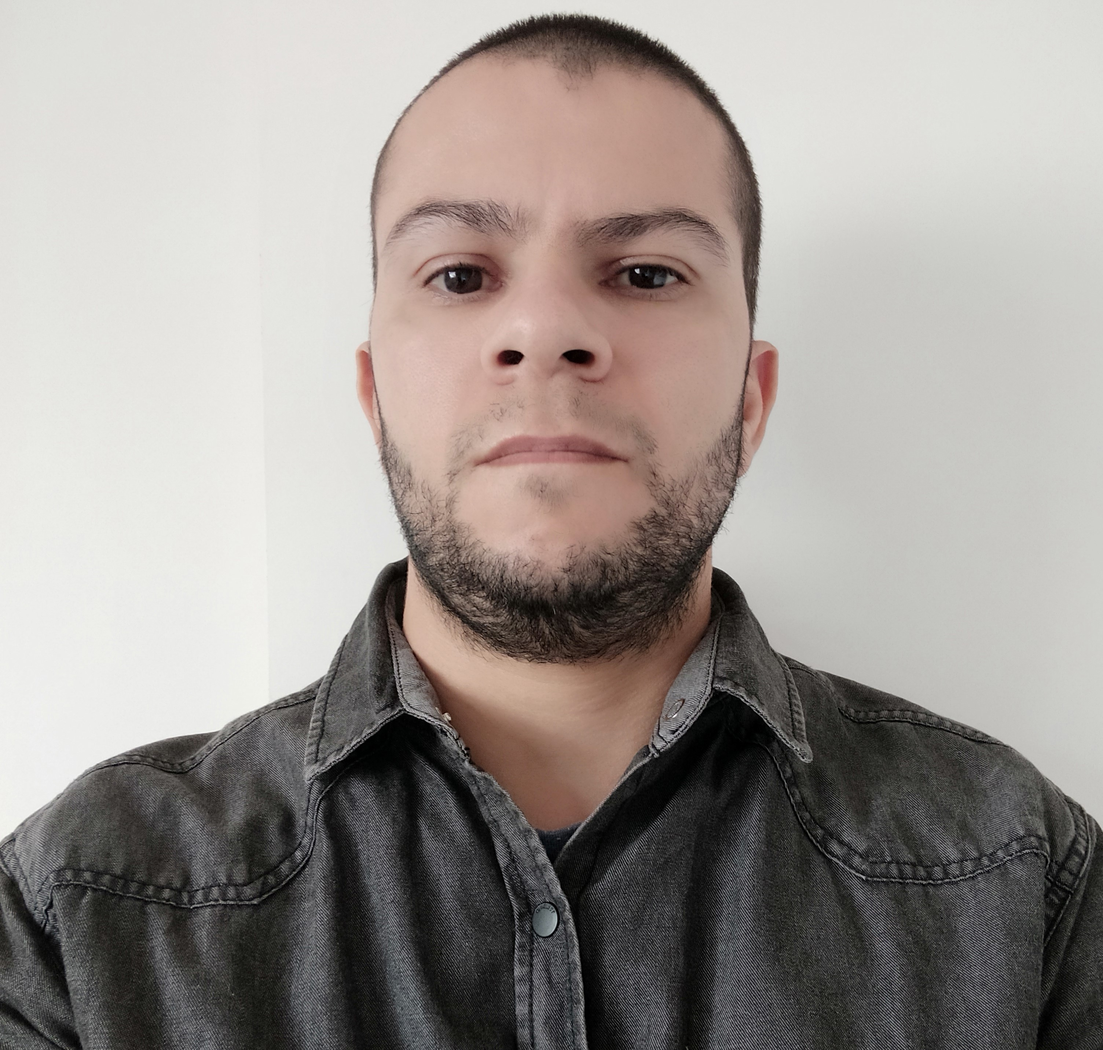
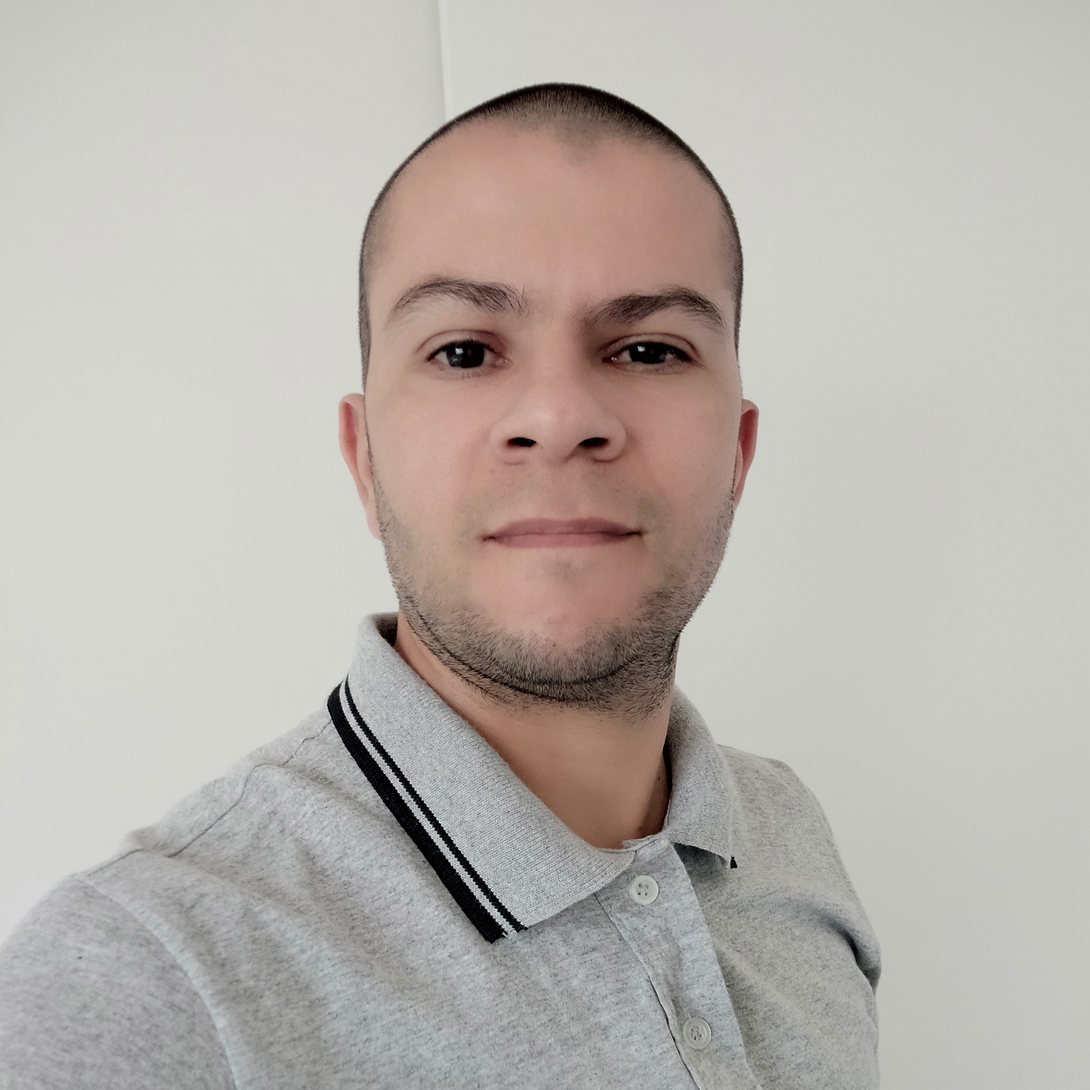
alteração de foto e cadastro

diff --git a/index.html b/index.html
@@ -8,7 +8,7 @@
     <!--visualizar no celular-->
     <link rel="icon" href="./images/ico.png" type="image/png">
     <link rel="stylesheet" type="text/css" href="./css/style.css">
-    <title>Treinamento</title>
+    <title>Luiz Marcelo Mota</title>
 </head>
 
 <body>
@@ -39,7 +39,7 @@
                 <div class="nome">
                     <h3>LUIZ MARCELO MOTA</h3><br>
 
-                    <p id="desenvolvedorFullStack">DESENVOLVEDOR FULL STACK </p>
+                    <p id="desenvolvedorFullStack">{DESENVOLVEDOR FRONT-END} </p>
 
                 </div>
             </footer>
@@ -59,16 +59,11 @@
             <form method="post" action="https://hotmail.us6.list-manage.com/subscribe/post?u=e5a63cfed01debe8831857ce5&amp;id=11d7565c77" id="mc-embedded-subscribe-form" name="mc-embedded-subscribe-form" class="validate" target="_blank" novalidate>
                 <input id="name" name="FNAME" type="text" placeholder="Digite seu nome">
                 <input id="email" name="EMAIL" type="text" placeholder="Digite seu e-mail">
-                <select name="PLACE">
-                        <option value="SP">São Paulo</option>
-                        <option value="RJ">Rio de Janeiro</option>
-                        <option value="MG">Minas Gerais</option>
-                        <option value="ES">Espirito Santo</option>
-                    </select>
+
 
                 <div style="position: absolute; left: -5000px;" aria-hidden="true"><input type="text" name="b_e5a63cfed01debe8831857ce5_11d7565c77" tabindex="-1" value=""></div>
 
-                <input type="submit" value="INSCREVA-SE">
+                <input type="submit" value="ENVIAR">
             </form>
         </div>
 

diff --git a/README.md b/README.md
@@ -1,2 +1,5 @@
-# Projeto_portifolio
- Projeto de criação do portifolio pessoal utilizando HTML e CSS
+- [x] Alterção de foto de perfil
+- [x] Tirar cidades do cadastro
+- [] criar página sobre
+- [] criar página experiência
+- [] criar link para download de arquivo
